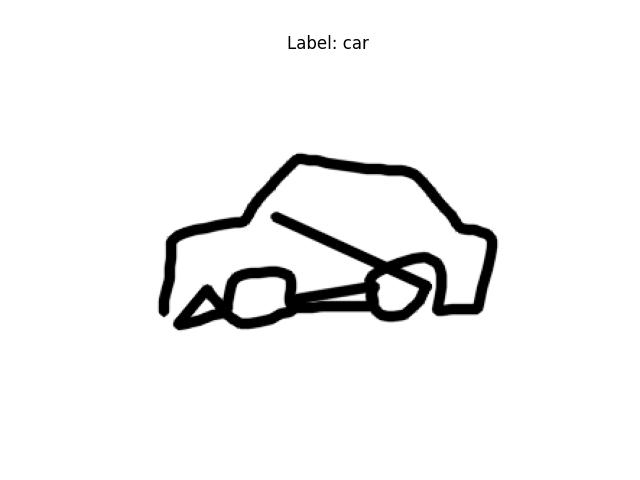
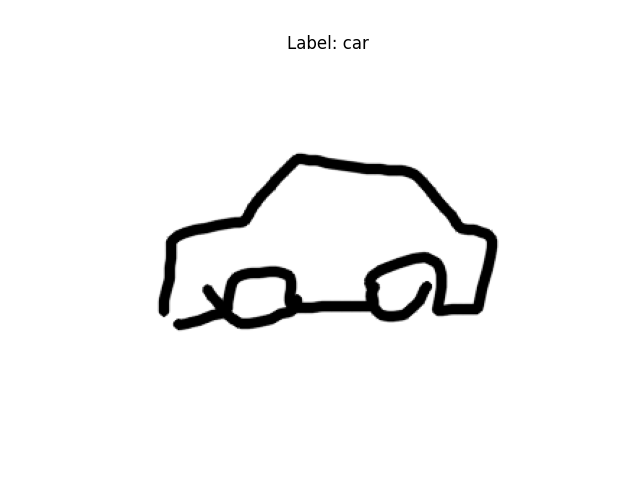
modified pen state in full data download

Changed region(s): [[0.4062, 0.4375, 0.6875, 0.5938], [0.4688, 0.5938, 0.5938, 0.6562], [0.2812, 0.5938, 0.3438, 0.6875]]

diff --git a/src/get_data.py b/src/get_data.py
@@ -97,6 +97,10 @@ def download_stroke_data(subset_labels, data_mode, num_samples_per_class, data_d
         ... // Additional strokes
     ]
 
+    pen states are a binary array:
+    p[i] == 0 -> pen lifted
+    p[i] == 1 -> pen drawing
+
     Args:
         subset_labels (list of str): List of classes to load.
         data_mode (DataMode): Mode for downloading data ('full' or 'simplified').
@@ -155,14 +159,13 @@ def download_stroke_data(subset_labels, data_mode, num_samples_per_class, data_d
             point_idx = 0
             for stroke_idx, stroke in enumerate(drawing_data):
                 num_points_in_stroke = len(stroke[0])
-
                 # insert a pen-up point if not the first stroke
                 if stroke_idx > 0:
                     # Insert pen-up point (repeats last point of previous stroke)
                     x[point_idx] = x[point_idx - 1]
                     y[point_idx] = y[point_idx - 1]
                     t[point_idx] = t[point_idx - 1] + 1  # increment timestamp
-                    p[point_idx] = 1  # Pen up
+                    p[point_idx] = 0  # Pen up
                     point_idx += 1
 
                 # get current stroke points in arr
@@ -170,23 +173,16 @@ def download_stroke_data(subset_labels, data_mode, num_samples_per_class, data_d
                 y_stroke = np.array(stroke[1], dtype=np.float32)
                 t_stroke = np.array(stroke[2], dtype=np.int32)
 
-                # Pen state array for the current stroke
+                # pen states
                 p_stroke = np.ones(num_points_in_stroke, dtype=np.uint8)  # pen down
-                if stroke_idx == 0:
-                    p_stroke[0] = 0  # pen start
-                else:
-                    p_stroke[0] = 1  # pen down after pen up
+                p[point_idx:point_idx + num_points_in_stroke] = p_stroke
 
                 # assign stroke points to collective stroke arrays
                 x[point_idx:point_idx + num_points_in_stroke] = x_stroke
                 y[point_idx:point_idx + num_points_in_stroke] = y_stroke
                 t[point_idx:point_idx + num_points_in_stroke] = t_stroke
-                p[point_idx:point_idx + num_points_in_stroke] = p_stroke
-
+                
                 point_idx += num_points_in_stroke
-            
-            # last pen state is pen end
-            p[point_idx - 1] = 2
 
             drawings_arr[sample_idx] = np.stack([x[:point_idx], y[:point_idx], t[:point_idx], p[:point_idx]])
             

diff --git a/src/image_rendering.py b/src/image_rendering.py
@@ -27,15 +27,16 @@ def full_strokes_to_vector_images(sample):
     simplified_image = []
     current_stroke = []
 
-    for idx in range(len(p)):
-        if p[idx] == 0 or p[idx] == 1:
+    for i in range(len(p)):
+        if p[i] == 1:
             # pen is down or pen start, add point to current stroke
-            current_stroke.append([x[idx], y[idx]])
-        elif p[idx] == 2 or p[idx] == 3:
+            current_stroke.append([x[i], y[i]])
+        elif p[i] == 0:
             # pen up or pen end, add point to current stroke and save it
-            current_stroke.append([x[idx], y[idx]])
+            current_stroke.append([x[i], y[i]])
             simplified_image.append(np.array(current_stroke, dtype=np.float32))
             current_stroke = []  # Reset current stroke
+
 
     return simplified_image
 
@@ -127,24 +128,22 @@ def animate_strokes(data, use_actual_time=True, save_gif=False, num_frames=500, 
 
     for i in range(len(pen_state)):
         # Check if this is a pen-up point (delta_x and delta_y are zero, pen_state == 1)
-        if pen_state[i] == 1 and delta_x[i] == 0 and delta_y[i] == 0:
+        if pen_state[i] == 0:
             # Pen-up point, end of current stroke
             if current_stroke_x:
                 strokes.append({'x': current_stroke_x, 'y': current_stroke_y, 't': current_stroke_t})
             current_stroke_x = []
             current_stroke_y = []
             current_stroke_t = []
-        else:
+        elif pen_state[i] == 1:
             # Continue current stroke
             current_stroke_x.append(x[i])
             current_stroke_y.append(y[i])
             current_stroke_t.append(time[i])
 
-        if pen_state[i] == 2:
-            # End of drawing
-            if current_stroke_x:
-                strokes.append({'x': current_stroke_x, 'y': current_stroke_y, 't': current_stroke_t})
-            break
+    # End of drawing
+    if current_stroke_x:
+        strokes.append({'x': current_stroke_x, 'y': current_stroke_y, 't': current_stroke_t})
 
     if current_stroke_x:
         strokes.append({'x': current_stroke_x, 'y': current_stroke_y, 't': current_stroke_t})

diff --git a/src/train.py b/src/train.py
@@ -38,22 +38,24 @@ def handle_model_training(subset_labels, data_mode, num_samples_per_class, model
     
 def train_generator(X, y, subset_labels, model_type, device, model_configs): 
     # ensure data loaded properly by inspecting an image or two
+    print("Normalizing stroke data...")
+    Xnorm, _ = local_normalize_stroke_data(X)
+
     print("Rasterizing samples...")
-    rand_idxs = np.random.randint(0, X.shape[0], 10)
+    rand_idxs = np.random.randint(0, X.shape[0], len(subset_labels))
     for rand_idx in rand_idxs:
         X_vec = full_strokes_to_vector_images(X[rand_idx])
         in_size = int(np.max([np.max(stroke) for stroke in X_vec if len(stroke) > 0]))
         test_img = vector_to_raster([X_vec], in_size=in_size, out_size=256, line_diameter=8, padding=4)[0]
         test_display_img(test_img, subset_labels[y[rand_idx]], rand_idx)
+        break
 
     if model_type == ModelType.TCN:
         tcn.train_tcn(X, y)        
 
     elif model_type == ModelType.RNN:
         rnn_configs = model_configs['rnn']
-        print("Normalizing stroke data...")
-        Xnorm, _ = local_normalize_stroke_data(X)
-        animate_strokes(Xnorm[rand_idxs[5]], use_actual_time=True, save_gif=True, gif_fp="output/doodle_anims/sample_anim.gif")
+        animate_strokes(Xnorm[rand_idxs[0]], use_actual_time=True, save_gif=True, gif_fp="output/doodle_anims/sample_anim.gif")
 
         rnn.train_rnn(Xnorm, y, subset_labels, device, rnn_configs)
 
